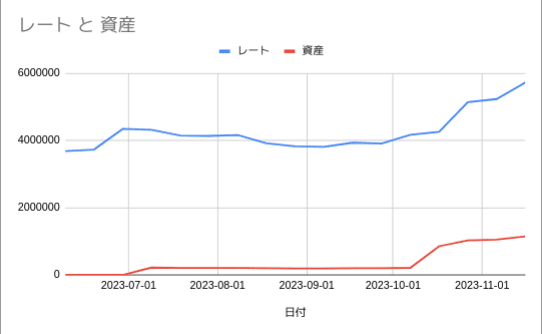
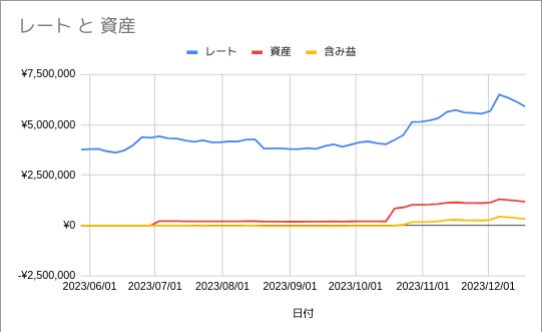
update README.md

diff --git a/README.md b/README.md
@@ -13,23 +13,38 @@ Make input.csv from your BTC input history like below
 
 ```
 $ btchistory -input input.csv -span 10
-2023-06-09	3686271.000000	0.000000
-2023-06-19	3733234.000000	0.000000
-2023-06-29	4348324.000000	0.000000
-2023-07-09	4322806.000000	216140.300000
-2023-07-19	4149704.000000	207485.200000
-2023-07-29	4138005.000000	206900.250000
-2023-08-08	4163000.000000	208150.000000
-2023-08-18	3920006.000000	196000.300000
-2023-08-28	3827795.000000	191389.750000
-2023-09-07	3811170.000000	190558.500000
-2023-09-17	3935829.000000	196791.450000
-2023-09-27	3912759.000000	195637.950000
-2023-10-07	4170600.000000	208530.000000
-2023-10-17	4261376.000000	852275.200000
-2023-10-27	5140448.000000	1028089.600000
-2023-11-06	5234995.000000	1046999.000000
-2023-11-16	5730812.000000	1146162.400000
+日時	レート	資産	含み益
+2023-05-28	3771177.000000	0.000000	0.000000
+2023-06-01	3793007.000000	0.000000	0.000000
+2023-06-05	3806000.000000	0.000000	0.000000
+2023-06-09	3686271.000000	0.000000	0.000000
+2023-06-13	3618187.000000	0.000000	0.000000
+2023-06-17	3730706.000000	0.000000	0.000000
+2023-06-21	3989686.000000	0.000000	0.000000
+2023-06-25	4384947.000000	0.000000	0.000000
+2023-06-29	4348324.000000	0.000000	0.000000
+2023-07-03	4423958.000000	221197.900000	0.000000
+2023-07-07	4323077.000000	216153.850000	-5044.050000
+2023-07-11	4318020.000000	215901.000000	-5296.900000
+2023-07-15	4213300.000000	210665.000000	-10532.900000
+2023-07-19	4149704.000000	207485.200000	-13712.700000
+2023-07-23	4230786.000000	211539.300000	-9658.600000
+2023-07-27	4130333.000000	206516.650000	-14681.250000
+2023-07-31	4130511.000000	206525.550000	-14672.350000
+2023-08-04	4172458.000000	208622.900000	-12575.000000
+2023-08-08	4163000.000000	208150.000000	-13047.900000
+2023-08-12	4265787.000000	213289.350000	-7908.550000
+2023-08-16	4261974.000000	213098.700000	-8099.200000
+2023-08-20	3813822.000000	190691.100000	-30506.800000
+2023-08-24	3826754.000000	191337.700000	-29860.200000
+2023-08-28	3827795.000000	191389.750000	-29808.150000
+2023-09-01	3794295.000000	189714.750000	-31483.150000
+2023-09-05	3792742.000000	189637.100000	-31560.800000
+2023-09-09	3839511.000000	191975.550000	-29222.350000
+2023-09-13	3808652.000000	190432.600000	-30765.300000
+2023-09-17	3935829.000000	196791.450000	-24406.450000
+2023-09-21	4026009.000000	201300.450000	-19897.450000
+2023-09-25	3906417.000000	195320.850000	-25877.050000
 ```
 
 ![](screenshot.png)
